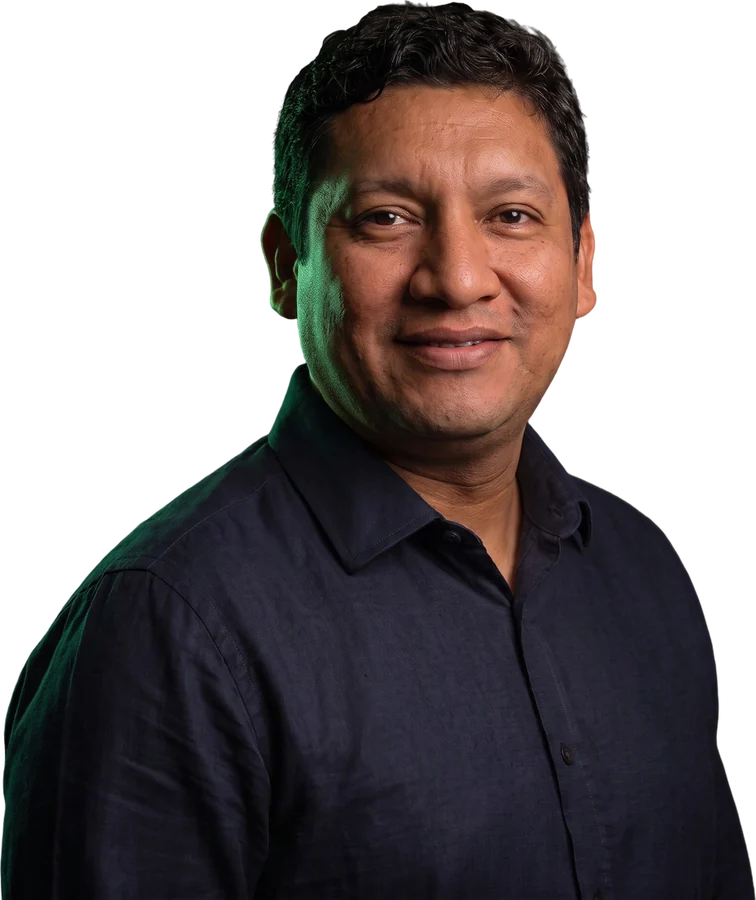
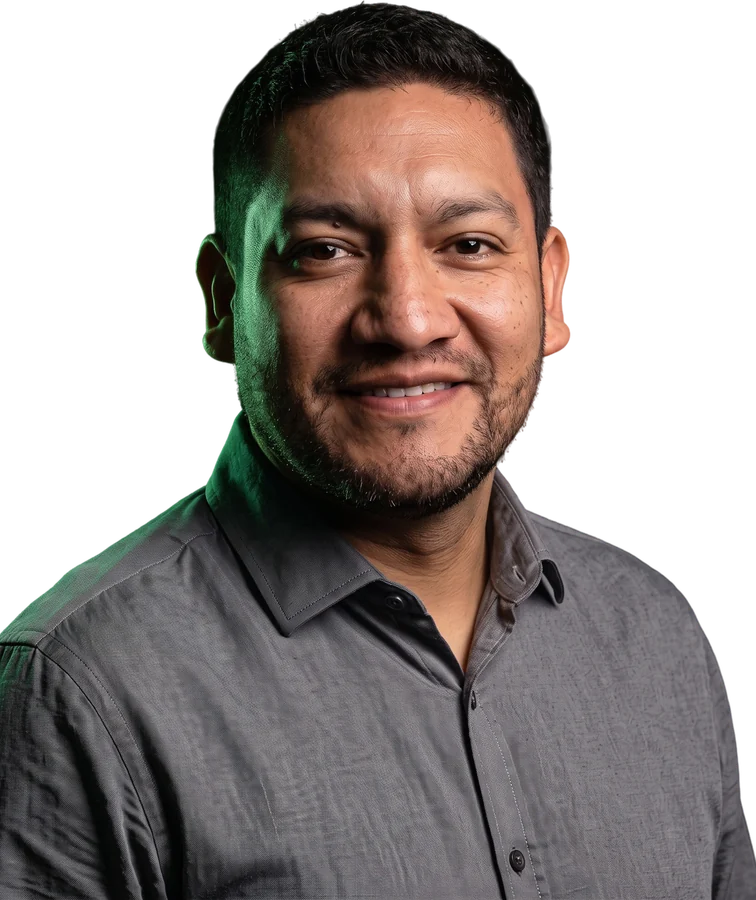
Nueva foto de Carlos, apellido Gonzales y Carlos preponderante (landing y mailings)

diff --git a/index.html b/index.html
@@ -115,8 +115,8 @@ section{position:relative;padding:clamp(80px,11vw,140px) 0}
 .stage-card{position:absolute;left:0;right:0;bottom:0;height:64%;border-radius:32px;background:linear-gradient(180deg,rgba(31,101,54,.38),rgba(13,53,24,.94));border:1px solid rgba(93,219,136,.4)}
 .stage-people{position:absolute;inset:0;clip-path:inset(-60% 0 0 0 round 32px)}
 .stage-people img{position:absolute;bottom:0;height:74%;width:auto}
-.stage-people .p-carlos{right:-5%}
-.stage-people .p-antonio{left:-5%}
+.stage-people .p-carlos{right:-6%;height:84%}
+.stage-people .p-antonio{left:-1%;height:62%}
 .stage-fade{position:absolute;left:0;right:0;bottom:0;height:30%;border-radius:0 0 32px 32px;background:linear-gradient(180deg,transparent,rgba(11,15,13,.95))}
 .stage-names{position:absolute;left:24px;right:24px;bottom:20px;display:flex;justify-content:space-between;gap:12px}
 .stage-names div:last-child{text-align:right}
@@ -362,6 +362,12 @@ footer{border-top:1px solid var(--line);padding:56px 0 40px}
 .js .nav-right .btn,.js .m-cta{transition:opacity .35s ease,transform .35s ease,visibility .35s}
 .js:not(.form-out) .nav-right .btn{opacity:0;transform:translateY(-8px);visibility:hidden;pointer-events:none}
 .js:not(.form-out) .m-cta{opacity:0;transform:translateY(16px);visibility:hidden;pointer-events:none}
+
+/* Carlos preponderante */
+.stage-names .nm-c b{font-size:clamp(19px,1.9vw,25px)}
+.stage-names .nm-a b{font-size:clamp(13px,1.2vw,16px);color:var(--muted)}
+.stage-names .nm-a span{font-size:11px}
+.hosts-txt b:first-child{font-size:15px}
 /* sticky cta mobile */
 .m-cta{position:fixed;left:16px;right:16px;bottom:14px;z-index:40;display:none}
 .m-cta .btn{width:100%;justify-content:center}
@@ -537,8 +543,8 @@ footer{border-top:1px solid var(--line);padding:56px 0 40px}
         <div class="meta glass"><span class="ic"><svg viewBox="0 0 24 24" fill="none" stroke-width="2" stroke-linecap="round" stroke-linejoin="round"><rect x="3" y="4" width="18" height="12" rx="2"/><path d="M8 20h8M12 16v4"/></svg></span><div><b>Google Meet</b><span>Online · En vivo</span></div></div>
       </div>
       <div class="hosts" data-hero>
-        <div class="avatars"><span class="av av-a"><img src="assets/antonio.webp" alt="Antonio Sánchez"></span><span class="av av-c"><img src="assets/carlos.webp" alt="Carlos Gonsales"></span></div>
-        <div class="hosts-txt"><b>Antonio Sánchez</b> <span>Jefe de Desarrollo</span><br><b>Carlos Gonsales</b> <span>Gerente Comercial SAP B1</span></div>
+        <div class="avatars"><span class="av av-c"><img src="assets/carlos.webp" alt="Carlos Gonzales"></span><span class="av av-a"><img src="assets/antonio.webp" alt="Antonio Sánchez"></span></div>
+        <div class="hosts-txt"><b>Carlos Gonzales</b> <span>Gerente Comercial SAP B1</span><br><b>Antonio Sánchez</b> <span>Jefe de Desarrollo</span></div>
       </div>
       <div class="cd-row" data-hero>
         <div class="countdown" id="countdown" aria-live="polite">
@@ -694,21 +700,21 @@ footer{border-top:1px solid var(--line);padding:56px 0 40px}
     </div>
     <div class="spk-grid">
       <article class="spk glass grad-border" data-reveal>
+        <div class="spk-photo spk-c"><div class="rings"></div><img src="assets/carlos.webp" alt="Carlos Gonzales" loading="lazy"></div>
+        <div class="spk-body">
+          <span class="topic">Valor de negocio</span>
+          <h3>Carlos Gonzales</h3>
+          <div class="role">Gerente Comercial SAP Business One en Dot Solutions</div>
+          <p>Consultor certificado en SAP Business One, trabaja con la plataforma desde 2006. Diseña propuestas de valor y acompaña su implementación de cerca. Fue tester de SAP Business One 9.1 en el Acceptance Test de SAP en Shanghái.</p>
+        </div>
+      </article>
+      <article class="spk glass grad-border" data-reveal>
         <div class="spk-photo spk-a"><div class="rings"></div><img src="assets/antonio.webp" alt="Antonio Sánchez" loading="lazy"></div>
         <div class="spk-body">
           <span class="topic">Arquitectura &amp; Webhooks</span>
           <h3>Antonio Sánchez</h3>
           <div class="role">Jefe de Desarrollo en Dot Solutions</div>
           <p>Ingeniero en informática con más de 10 años de experiencia. Lidera el equipo de desarrollo y soporte TI de DOT: add-ons con SAP Business One SDK, APIs e integraciones con e-commerce, CRM y WMS que extienden el ERP.</p>
-        </div>
-      </article>
-      <article class="spk glass grad-border" data-reveal>
-        <div class="spk-photo spk-c"><div class="rings"></div><img src="assets/carlos.webp" alt="Carlos Gonsales" loading="lazy"></div>
-        <div class="spk-body">
-          <span class="topic">Valor de negocio</span>
-          <h3>Carlos Gonsales</h3>
-          <div class="role">Gerente Comercial SAP Business One en Dot Solutions</div>
-          <p>Consultor certificado en SAP Business One, trabaja con la plataforma desde 2006. Diseña propuestas de valor y acompaña su implementación de cerca. Fue tester de SAP Business One 9.1 en el Acceptance Test de SAP en Shanghái.</p>
         </div>
       </article>
     </div>
@@ -735,18 +741,18 @@ footer{border-top:1px solid var(--line);padding:56px 0 40px}
       </div>
     </div>
 
-    <div class="stage" id="stage" aria-label="Expositores: Antonio Sánchez y Carlos Gonsales">
+    <div class="stage" id="stage" aria-label="Expositores: Carlos Gonzales y Antonio Sánchez">
       <div class="pulse"></div><div class="pulse p2"></div><div class="pulse p3"></div>
       <div class="ring" data-depth="0.15"></div>
       <div class="stage-card"></div>
       <div class="stage-people">
         <img class="p-antonio" src="assets/antonio.webp" alt="Antonio Sánchez" data-depth="0.4" loading="lazy">
-        <img class="p-carlos" src="assets/carlos.webp" alt="Carlos Gonsales" data-depth="0.4" loading="lazy">
+        <img class="p-carlos" src="assets/carlos.webp" alt="Carlos Gonzales" data-depth="0.4" loading="lazy">
       </div>
       <div class="stage-fade"></div>
       <div class="stage-names">
-        <div><b>Antonio Sánchez</b><span>Jefe de Desarrollo</span></div>
-        <div><b>Carlos Gonsales</b><span>Gerente Comercial SAP B1</span></div>
+        <div class="nm-a"><b>Antonio Sánchez</b><span>Jefe de Desarrollo</span></div>
+        <div class="nm-c"><b>Carlos Gonzales</b><span>Gerente Comercial SAP B1</span></div>
       </div>
       <div class="float-chip glass fc1"><i></i>Evento en SAP Business One</div>
       <div class="float-chip glass fc2"><i></i>Notificación → sistemas conectados</div>

diff --git a/email/invitacion.html b/email/invitacion.html
@@ -81,7 +81,7 @@
   <!-- ============ HERO ============ -->
   <tr><td class="full" style="padding:0 0 0;">
     <a href="https://jpmenenm.github.io/webinar-sapb1-v26/?utm_source=email&amp;utm_medium=invitacion&amp;utm_campaign=webinar-sapb1-v261#registro" target="_blank" style="text-decoration:none;">
-      <img src="https://jpmenenm.github.io/webinar-sapb1-v26/email/img/hero.jpg" width="600" height="315" alt="Webinar en vivo · SAP Business One v26.1 · Webhooks &amp; eventos en tiempo real · 5 de noviembre · Antonio Sánchez y Carlos Gonsales" style="width:600px;height:auto;border-radius:20px 20px 0 0;color:#EBE9E3;font-family:Arial,sans-serif;font-size:16px;background:#0F1512;">
+      <img src="https://jpmenenm.github.io/webinar-sapb1-v26/email/img/hero.jpg" width="600" height="315" alt="Webinar en vivo · SAP Business One v26.1 · Webhooks &amp; eventos en tiempo real · 5 de noviembre · Antonio Sánchez y Carlos Gonzales" style="width:600px;height:auto;border-radius:20px 20px 0 0;color:#EBE9E3;font-family:Arial,sans-serif;font-size:16px;background:#0F1512;">
     </a>
   </td></tr>
 
@@ -238,21 +238,21 @@
     <table role="presentation" width="100%" cellpadding="0" cellspacing="0" border="0"><tr>
       <td class="stack stack-pad" width="50%" valign="top" style="padding-right:8px;">
         <table role="presentation" width="100%" cellpadding="0" cellspacing="0" border="0" bgcolor="#0A0D0B" style="border:1px solid #1E2A23;border-radius:18px;background:#0A0D0B;">
-          <tr><td class="full" style="padding:0;"><img src="https://jpmenenm.github.io/webinar-sapb1-v26/email/img/speaker-antonio.jpg" width="252" height="270" alt="Antonio Sánchez" style="width:100%;max-width:252px;height:auto;border-radius:18px 18px 0 0;"></td></tr>
+          <tr><td class="full" style="padding:0;"><img src="https://jpmenenm.github.io/webinar-sapb1-v26/email/img/speaker-carlos.jpg" width="252" height="270" alt="Carlos Gonzales" style="width:100%;max-width:252px;height:auto;border-radius:18px 18px 0 0;"></td></tr>
           <tr><td class="f" style="padding:16px 18px 18px;font-family:'Poppins',Arial,sans-serif;">
-            <div style="font-size:17px;line-height:22px;color:#EBE9E3;font-weight:600;">Antonio Sánchez</div>
-            <div style="font-size:12px;line-height:18px;color:#5DDB88;margin:2px 0 8px;">Jefe de Desarrollo</div>
-            <div style="font-size:12px;line-height:18px;color:#9AA197;">Ingeniero en informática con más de 10 años de experiencia. Lidera desarrollo y soporte TI: add-ons, APIs e integraciones sobre SAP Business One.</div>
+            <div style="font-size:17px;line-height:22px;color:#EBE9E3;font-weight:600;">Carlos Gonzales</div>
+            <div style="font-size:12px;line-height:18px;color:#5DDB88;margin:2px 0 8px;">Gerente Comercial SAP B1</div>
+            <div style="font-size:12px;line-height:18px;color:#9AA197;">Consultor certificado, trabaja con SAP Business One desde 2006. Fue tester de la versión 9.1 en el Acceptance Test de SAP en Shanghái.</div>
           </td></tr>
         </table>
       </td>
       <td class="stack" width="50%" valign="top" style="padding-left:8px;">
         <table role="presentation" width="100%" cellpadding="0" cellspacing="0" border="0" bgcolor="#0A0D0B" style="border:1px solid #1E2A23;border-radius:18px;background:#0A0D0B;">
-          <tr><td class="full" style="padding:0;"><img src="https://jpmenenm.github.io/webinar-sapb1-v26/email/img/speaker-carlos.jpg" width="252" height="270" alt="Carlos Gonsales" style="width:100%;max-width:252px;height:auto;border-radius:18px 18px 0 0;"></td></tr>
+          <tr><td class="full" style="padding:0;"><img src="https://jpmenenm.github.io/webinar-sapb1-v26/email/img/speaker-antonio.jpg" width="252" height="270" alt="Antonio Sánchez" style="width:100%;max-width:252px;height:auto;border-radius:18px 18px 0 0;"></td></tr>
           <tr><td class="f" style="padding:16px 18px 18px;font-family:'Poppins',Arial,sans-serif;">
-            <div style="font-size:17px;line-height:22px;color:#EBE9E3;font-weight:600;">Carlos Gonsales</div>
-            <div style="font-size:12px;line-height:18px;color:#5DDB88;margin:2px 0 8px;">Gerente Comercial SAP B1</div>
-            <div style="font-size:12px;line-height:18px;color:#9AA197;">Consultor certificado, trabaja con SAP Business One desde 2006. Fue tester de la versión 9.1 en el Acceptance Test de SAP en Shanghái.</div>
+            <div style="font-size:17px;line-height:22px;color:#EBE9E3;font-weight:600;">Antonio Sánchez</div>
+            <div style="font-size:12px;line-height:18px;color:#5DDB88;margin:2px 0 8px;">Jefe de Desarrollo</div>
+            <div style="font-size:12px;line-height:18px;color:#9AA197;">Ingeniero en informática con más de 10 años de experiencia. Lidera desarrollo y soporte TI: add-ons, APIs e integraciones sobre SAP Business One.</div>
           </td></tr>
         </table>
       </td>

diff --git a/email/confirmacion.html b/email/confirmacion.html
@@ -82,7 +82,7 @@
   <!-- ============ HERO ============ -->
   <tr><td class="full" style="padding:0 0 0;">
     <a href="https://jpmenenm.github.io/webinar-sapb1-v26/" target="_blank" style="text-decoration:none;">
-      <img src="https://jpmenenm.github.io/webinar-sapb1-v26/email/img/hero.jpg" width="600" height="315" alt="Webinar en vivo · SAP Business One v26.1 · Webhooks &amp; eventos en tiempo real · 5 de noviembre · Antonio Sánchez y Carlos Gonsales" style="width:600px;height:auto;border-radius:20px 20px 0 0;color:#EBE9E3;font-family:Arial,sans-serif;font-size:16px;background:#0F1512;">
+      <img src="https://jpmenenm.github.io/webinar-sapb1-v26/email/img/hero.jpg" width="600" height="315" alt="Webinar en vivo · SAP Business One v26.1 · Webhooks &amp; eventos en tiempo real · 5 de noviembre · Antonio Sánchez y Carlos Gonzales" style="width:600px;height:auto;border-radius:20px 20px 0 0;color:#EBE9E3;font-family:Arial,sans-serif;font-size:16px;background:#0F1512;">
     </a>
   </td></tr>
 
@@ -231,21 +231,21 @@
     <table role="presentation" width="100%" cellpadding="0" cellspacing="0" border="0"><tr>
       <td class="stack stack-pad" width="50%" valign="top" style="padding-right:8px;">
         <table role="presentation" width="100%" cellpadding="0" cellspacing="0" border="0" bgcolor="#0A0D0B" style="border:1px solid #1E2A23;border-radius:18px;background:#0A0D0B;">
-          <tr><td class="full" style="padding:0;"><img src="https://jpmenenm.github.io/webinar-sapb1-v26/email/img/speaker-antonio.jpg" width="252" height="270" alt="Antonio Sánchez" style="width:100%;max-width:252px;height:auto;border-radius:18px 18px 0 0;"></td></tr>
+          <tr><td class="full" style="padding:0;"><img src="https://jpmenenm.github.io/webinar-sapb1-v26/email/img/speaker-carlos.jpg" width="252" height="270" alt="Carlos Gonzales" style="width:100%;max-width:252px;height:auto;border-radius:18px 18px 0 0;"></td></tr>
           <tr><td class="f" style="padding:16px 18px 18px;font-family:'Poppins',Arial,sans-serif;">
-            <div style="font-size:17px;line-height:22px;color:#EBE9E3;font-weight:600;">Antonio Sánchez</div>
-            <div style="font-size:12px;line-height:18px;color:#5DDB88;margin:2px 0 8px;">Jefe de Desarrollo</div>
-            <div style="font-size:12px;line-height:18px;color:#9AA197;">Ingeniero en informática con más de 10 años de experiencia. Lidera desarrollo y soporte TI: add-ons, APIs e integraciones sobre SAP Business One.</div>
+            <div style="font-size:17px;line-height:22px;color:#EBE9E3;font-weight:600;">Carlos Gonzales</div>
+            <div style="font-size:12px;line-height:18px;color:#5DDB88;margin:2px 0 8px;">Gerente Comercial SAP B1</div>
+            <div style="font-size:12px;line-height:18px;color:#9AA197;">Consultor certificado, trabaja con SAP Business One desde 2006. Fue tester de la versión 9.1 en el Acceptance Test de SAP en Shanghái.</div>
           </td></tr>
         </table>
       </td>
       <td class="stack" width="50%" valign="top" style="padding-left:8px;">
         <table role="presentation" width="100%" cellpadding="0" cellspacing="0" border="0" bgcolor="#0A0D0B" style="border:1px solid #1E2A23;border-radius:18px;background:#0A0D0B;">
-          <tr><td class="full" style="padding:0;"><img src="https://jpmenenm.github.io/webinar-sapb1-v26/email/img/speaker-carlos.jpg" width="252" height="270" alt="Carlos Gonsales" style="width:100%;max-width:252px;height:auto;border-radius:18px 18px 0 0;"></td></tr>
+          <tr><td class="full" style="padding:0;"><img src="https://jpmenenm.github.io/webinar-sapb1-v26/email/img/speaker-antonio.jpg" width="252" height="270" alt="Antonio Sánchez" style="width:100%;max-width:252px;height:auto;border-radius:18px 18px 0 0;"></td></tr>
           <tr><td class="f" style="padding:16px 18px 18px;font-family:'Poppins',Arial,sans-serif;">
-            <div style="font-size:17px;line-height:22px;color:#EBE9E3;font-weight:600;">Carlos Gonsales</div>
-            <div style="font-size:12px;line-height:18px;color:#5DDB88;margin:2px 0 8px;">Gerente Comercial SAP B1</div>
-            <div style="font-size:12px;line-height:18px;color:#9AA197;">Consultor certificado, trabaja con SAP Business One desde 2006. Fue tester de la versión 9.1 en el Acceptance Test de SAP en Shanghái.</div>
+            <div style="font-size:17px;line-height:22px;color:#EBE9E3;font-weight:600;">Antonio Sánchez</div>
+            <div style="font-size:12px;line-height:18px;color:#5DDB88;margin:2px 0 8px;">Jefe de Desarrollo</div>
+            <div style="font-size:12px;line-height:18px;color:#9AA197;">Ingeniero en informática con más de 10 años de experiencia. Lidera desarrollo y soporte TI: add-ons, APIs e integraciones sobre SAP Business One.</div>
           </td></tr>
         </table>
       </td>
